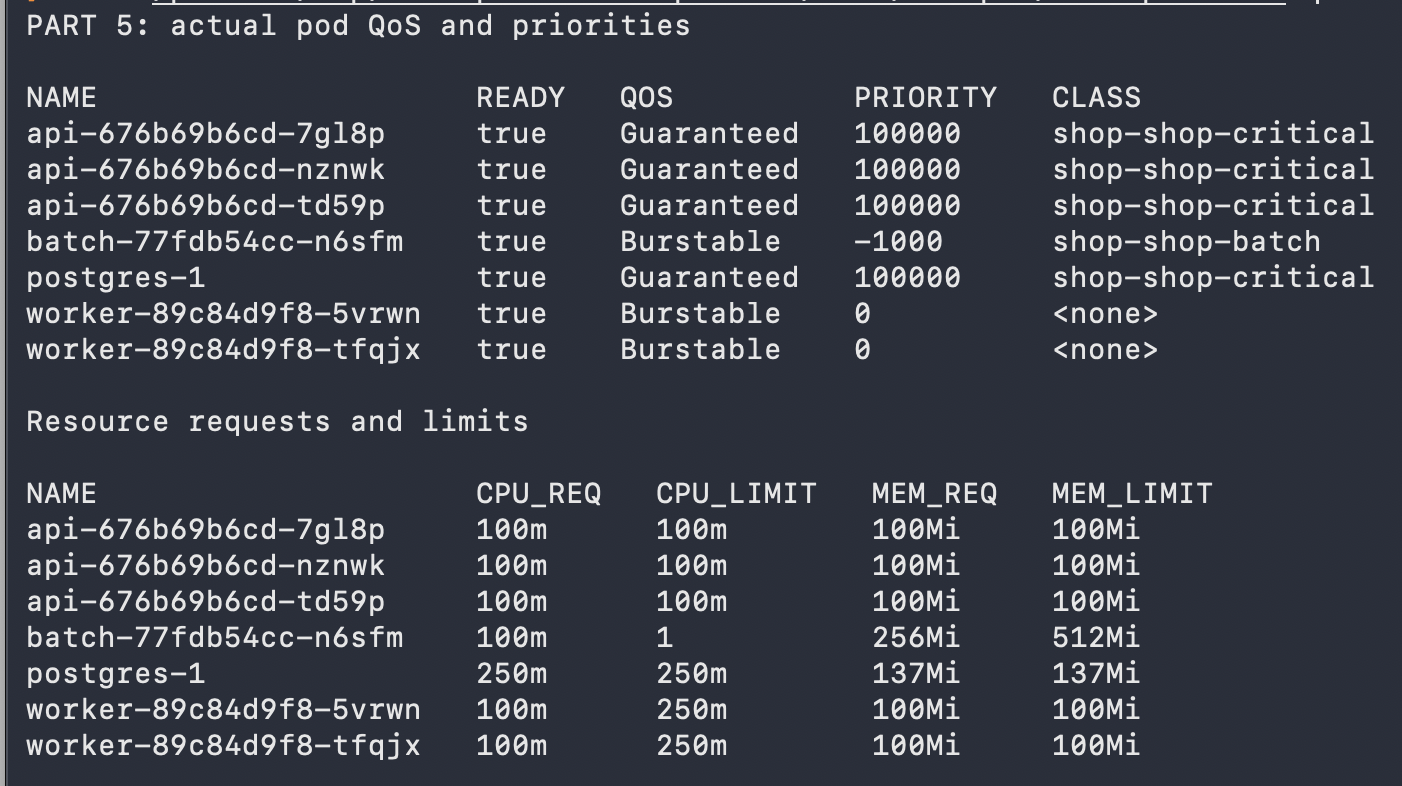
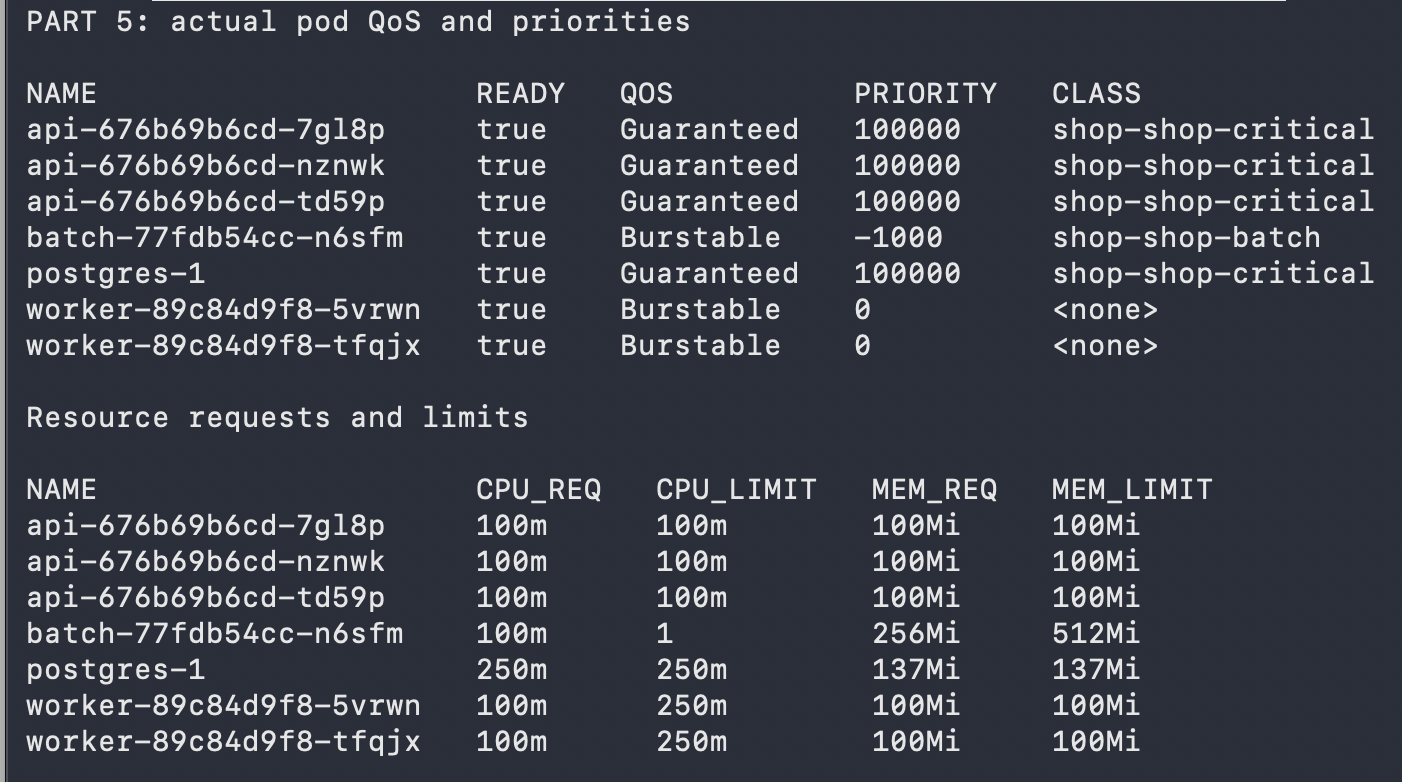
docs(lab4): finish tight screenshot crops and clarify chart location

diff --git a/lab4/README.md b/lab4/README.md
@@ -491,6 +491,9 @@ api-7f9fcbf86-f6tnp       1/1     Running   0          76m     10.244.1.11   sho
 а batch - `-1000`. Проверку проводили в двухнодовом `shop-lab4`; старый `shop`
 сохранили и остановили.
 
+Настройки частей 5-6 находятся в `lab3/chart/shop`, итоговые значения - в
+`lab4/values-part5-final.yaml`.
+
 ### Приоритеты и QoS
 
 У API и PostgreSQL сделали одинаковые requests и limits по CPU и памяти,
